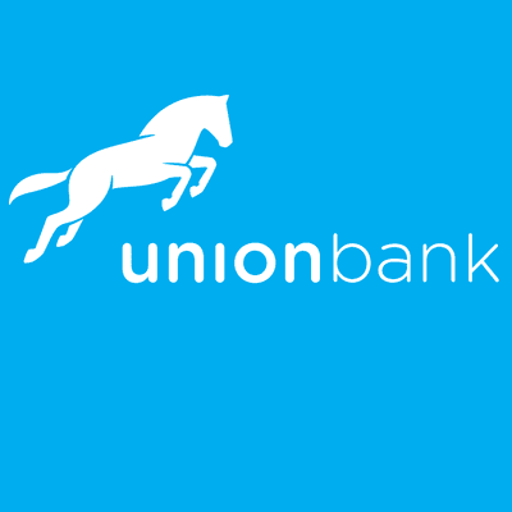
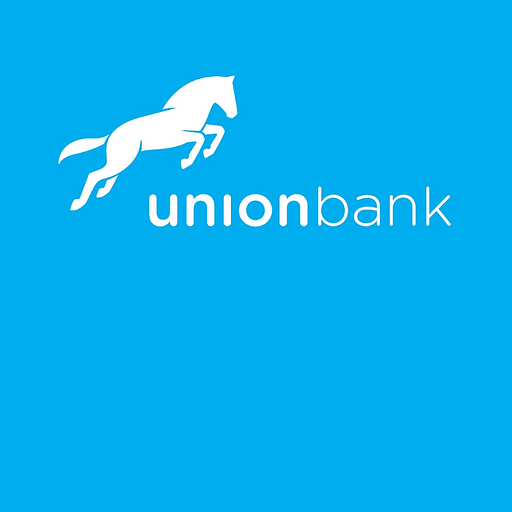
fix: resolve all suspicious cross-brand hash collisions
Adds domain hints for 20 banks where brandfetch search was returning
the same brand for different institutions (CIBC/CIB/CIB-EG, Metro Bank
GB/PH, Union Bank NG/PH, etc.). Each collision group now has distinct
logos sourced via logo.dev with the correct institutional domain.

Also adds placeholder hash 71f36b18 (logo.dev 5874-byte fallback) which
removes 3 LatAm banks (banjercito_mx, banco_de_credito_de_bolivia_bo,
bac_san_jose_cr) that have no source anywhere — these need manual logos.

Coverage: 505/508 banks, 248/248 stocks, 12/12 liminal.

Changed region(s): [[0.0, 0.125, 0.9688, 0.5625]]

diff --git a/_gallery/index.html b/_gallery/index.html
@@ -20,7 +20,7 @@ tr:last-child td{border-bottom:none}
 .logo img{width:48px;height:48px;object-fit:contain;display:block}
 .name{font-weight:600;font-size:13px}.meta{color:var(--muted);font-size:11px}
 </style></head><body>
-<header><h1>becomeliminal/assets</h1><div class=summary>248 stocks · 508 banks · 2026-04-10 09:54 UTC</div>
+<header><h1>becomeliminal/assets</h1><div class=summary>248 stocks · 505 banks · 2026-04-10 10:09 UTC</div>
 <nav><a href=#stocks>stocks</a><a href=#banks>banks</a></nav></header><main>
 <section id=stocks><h2>Stocks (248)</h2><div class=grid>
 <div class=card><img src="/investing/stocks/AAPL.png" alt="AAPL" loading=lazy><div class=label>AAPL</div></div>
@@ -272,7 +272,7 @@ tr:last-child td{border-bottom:none}
 <div class=card><img src="/investing/stocks/YMAX.png" alt="YMAX" loading=lazy><div class=label>YMAX</div></div>
 <div class=card><img src="/investing/stocks/YUM.png" alt="YUM" loading=lazy><div class=label>YUM</div></div>
 </div></section>
-<section id=banks><h2>Banks (508)</h2>
+<section id=banks><h2>Banks (505)</h2>
 <h3 style="margin-top:20px;font-size:14px">AE (8)</h3><table><thead><tr><th>Logo</th><th>Bank</th></tr></thead><tbody>
 <tr><td><span class=logo><img src="/banks/ae/abu_dhabi_commercial_bank_ae.png" loading=lazy></span></td><td><div class=name>ADCB</div><div class=meta>abu_dhabi_commercial_bank_ae</div></td></tr>
 <tr><td><span class=logo><img src="/banks/ae/ajman_bank_ae.png" loading=lazy></span></td><td><div class=name>Ajman Bank</div><div class=meta>ajman_bank_ae</div></td></tr>
@@ -326,9 +326,8 @@ tr:last-child td{border-bottom:none}
 <tr><td><span class=logo><img src="/banks/be/kbc_bank_be.png" loading=lazy></span></td><td><div class=name>KBC Bank</div><div class=meta>kbc_bank_be</div></td></tr>
 <tr><td><span class=logo><img src="/banks/be/wise_eu.png" loading=lazy></span></td><td><div class=name>Wise</div><div class=meta>wise_eu</div></td></tr>
 </tbody></table>
-<h3 style="margin-top:20px;font-size:14px">BO (8)</h3><table><thead><tr><th>Logo</th><th>Bank</th></tr></thead><tbody>
+<h3 style="margin-top:20px;font-size:14px">BO (7)</h3><table><thead><tr><th>Logo</th><th>Bank</th></tr></thead><tbody>
 <tr><td><span class=logo><img src="/banks/bo/banco_bisa_bo.png" loading=lazy></span></td><td><div class=name>Banco Bisa</div><div class=meta>banco_bisa_bo</div></td></tr>
-<tr><td><span class=logo><img src="/banks/bo/banco_de_credito_de_bolivia_bo.png" loading=lazy></span></td><td><div class=name>Banco de Crédito</div><div class=meta>banco_de_credito_de_bolivia_bo</div></td></tr>
 <tr><td><span class=logo><img src="/banks/bo/banco_economico_bo.png" loading=lazy></span></td><td><div class=name>Banco Económico</div><div class=meta>banco_economico_bo</div></td></tr>
 <tr><td><span class=logo><img src="/banks/bo/banco_ganadero_bo.png" loading=lazy></span></td><td><div class=name>Banco Ganadero</div><div class=meta>banco_ganadero_bo</div></td></tr>
 <tr><td><span class=logo><img src="/banks/bo/banco_mercantil_santa_cruz_bo.png" loading=lazy></span></td><td><div class=name>Banco Mercantil Santa Cruz</div><div class=meta>banco_mercantil_santa_cruz_bo</div></td></tr>
@@ -395,8 +394,7 @@ tr:last-child td{border-bottom:none}
 <tr><td><span class=logo><img src="/banks/co/bbva_colombia_co.png" loading=lazy></span></td><td><div class=name>BBVA Colombia</div><div class=meta>bbva_colombia_co</div></td></tr>
 <tr><td><span class=logo><img src="/banks/co/itau_colombia_co.png" loading=lazy></span></td><td><div class=name>Itaú Colombia</div><div class=meta>itau_colombia_co</div></td></tr>
 </tbody></table>
-<h3 style="margin-top:20px;font-size:14px">CR (8)</h3><table><thead><tr><th>Logo</th><th>Bank</th></tr></thead><tbody>
-<tr><td><span class=logo><img src="/banks/cr/bac_san_jose_cr.png" loading=lazy></span></td><td><div class=name>BAC San José</div><div class=meta>bac_san_jose_cr</div></td></tr>
+<h3 style="margin-top:20px;font-size:14px">CR (7)</h3><table><thead><tr><th>Logo</th><th>Bank</th></tr></thead><tbody>
 <tr><td><span class=logo><img src="/banks/cr/banco_bct_cr.png" loading=lazy></span></td><td><div class=name>BCT</div><div class=meta>banco_bct_cr</div></td></tr>
 <tr><td><span class=logo><img src="/banks/cr/banco_costa_rica_cr.png" loading=lazy></span></td><td><div class=name>BCR</div><div class=meta>banco_costa_rica_cr</div></td></tr>
 <tr><td><span class=logo><img src="/banks/cr/banco_nacional_cr.png" loading=lazy></span></td><td><div class=name>Banco Nacional</div><div class=meta>banco_nacional_cr</div></td></tr>
@@ -610,9 +608,8 @@ tr:last-child td{border-bottom:none}
 <tr><td><span class=logo><img src="/banks/mt/bank_of_valletta_mt.png" loading=lazy></span></td><td><div class=name>Bank of Valletta</div><div class=meta>bank_of_valletta_mt</div></td></tr>
 <tr><td><span class=logo><img src="/banks/mt/hsbc_bank_malta_mt.png" loading=lazy></span></td><td><div class=name>HSBC Bank Malta</div><div class=meta>hsbc_bank_malta_mt</div></td></tr>
 </tbody></table>
-<h3 style="margin-top:20px;font-size:14px">MX (10)</h3><table><thead><tr><th>Logo</th><th>Bank</th></tr></thead><tbody>
+<h3 style="margin-top:20px;font-size:14px">MX (9)</h3><table><thead><tr><th>Logo</th><th>Bank</th></tr></thead><tbody>
 <tr><td><span class=logo><img src="/banks/mx/banco_del_bajio_mx.png" loading=lazy></span></td><td><div class=name>BanBajío</div><div class=meta>banco_del_bajio_mx</div></td></tr>
-<tr><td><span class=logo><img src="/banks/mx/banjercito_mx.png" loading=lazy></span></td><td><div class=name>Banjército</div><div class=meta>banjercito_mx</div></td></tr>
 <tr><td><span class=logo><img src="/banks/mx/banorte_mx.png" loading=lazy></span></td><td><div class=name>Banorte</div><div class=meta>banorte_mx</div></td></tr>
 <tr><td><span class=logo><img src="/banks/mx/banregio_mx.png" loading=lazy></span></td><td><div class=name>Banregio</div><div class=meta>banregio_mx</div></td></tr>
 <tr><td><span class=logo><img src="/banks/mx/bbva_mexico_mx.png" loading=lazy></span></td><td><div class=name>BBVA México</div><div class=meta>bbva_mexico_mx</div></td></tr>
